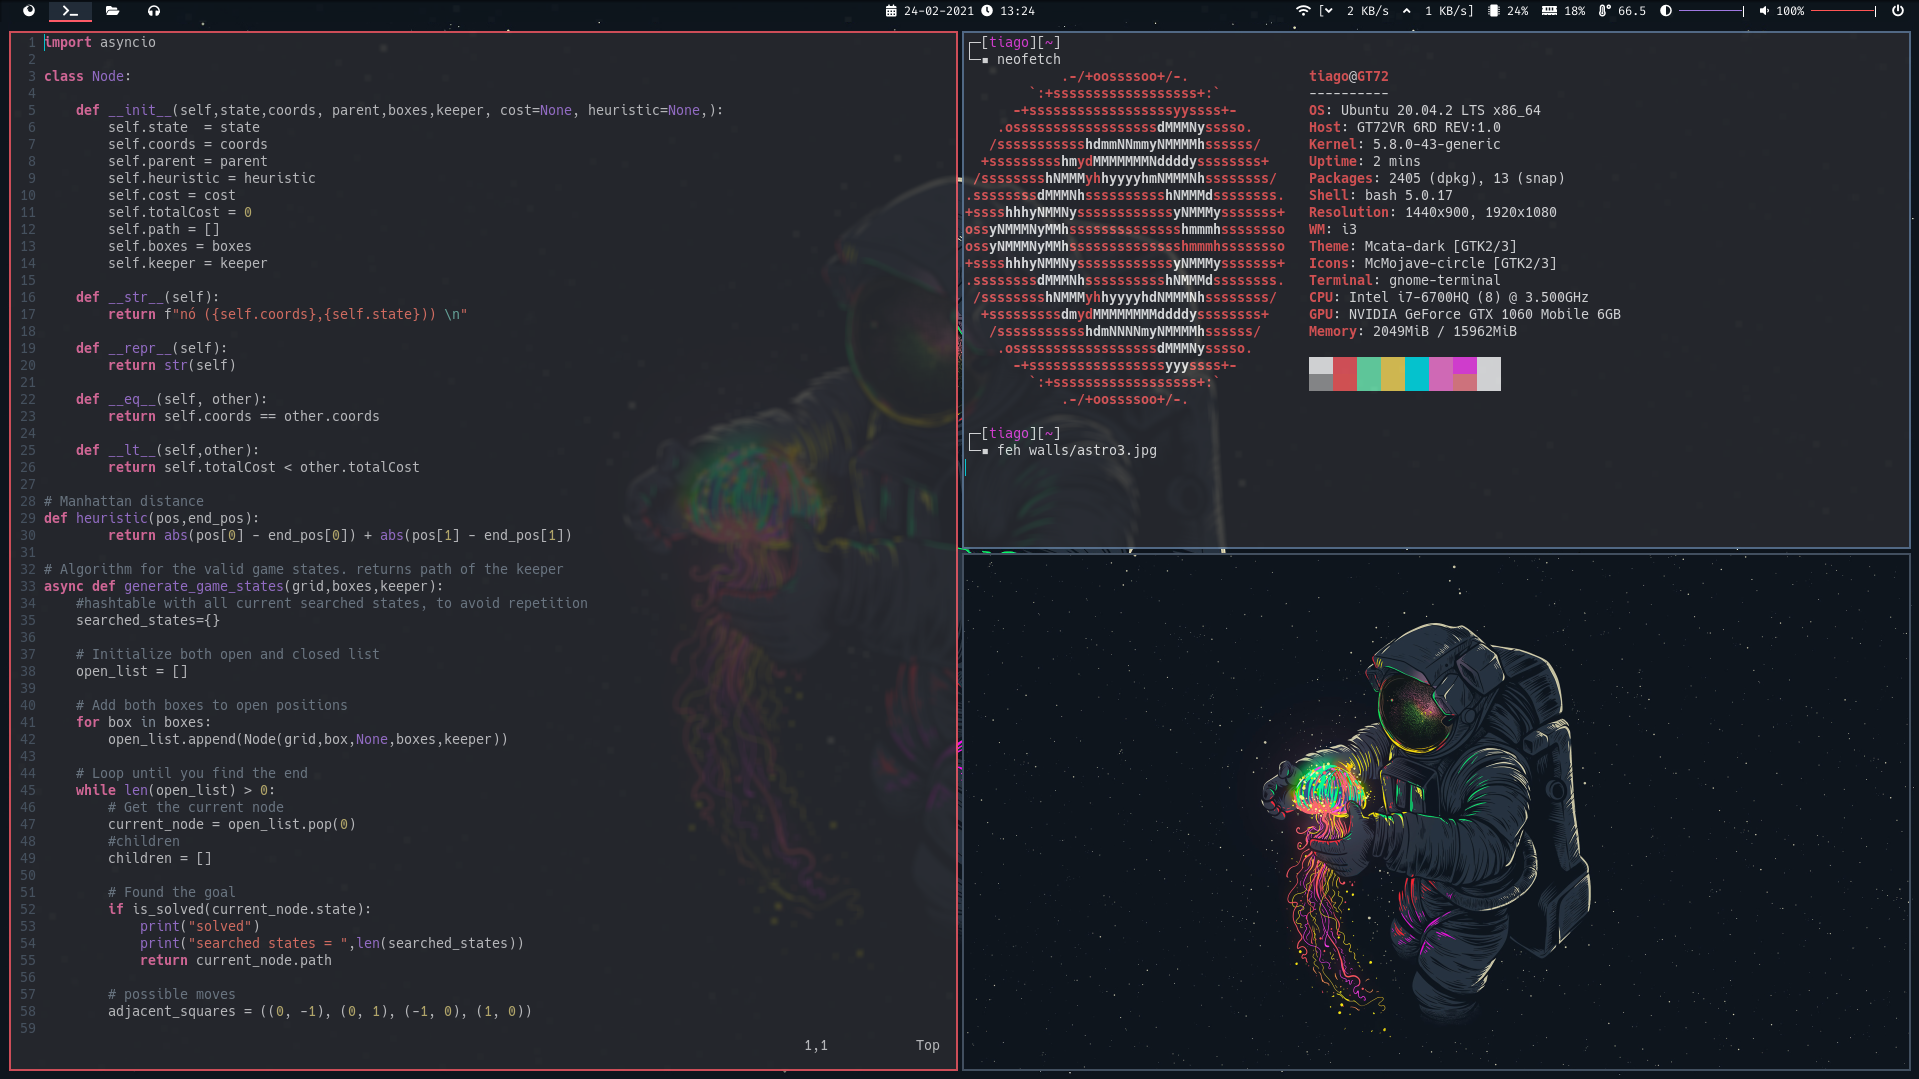
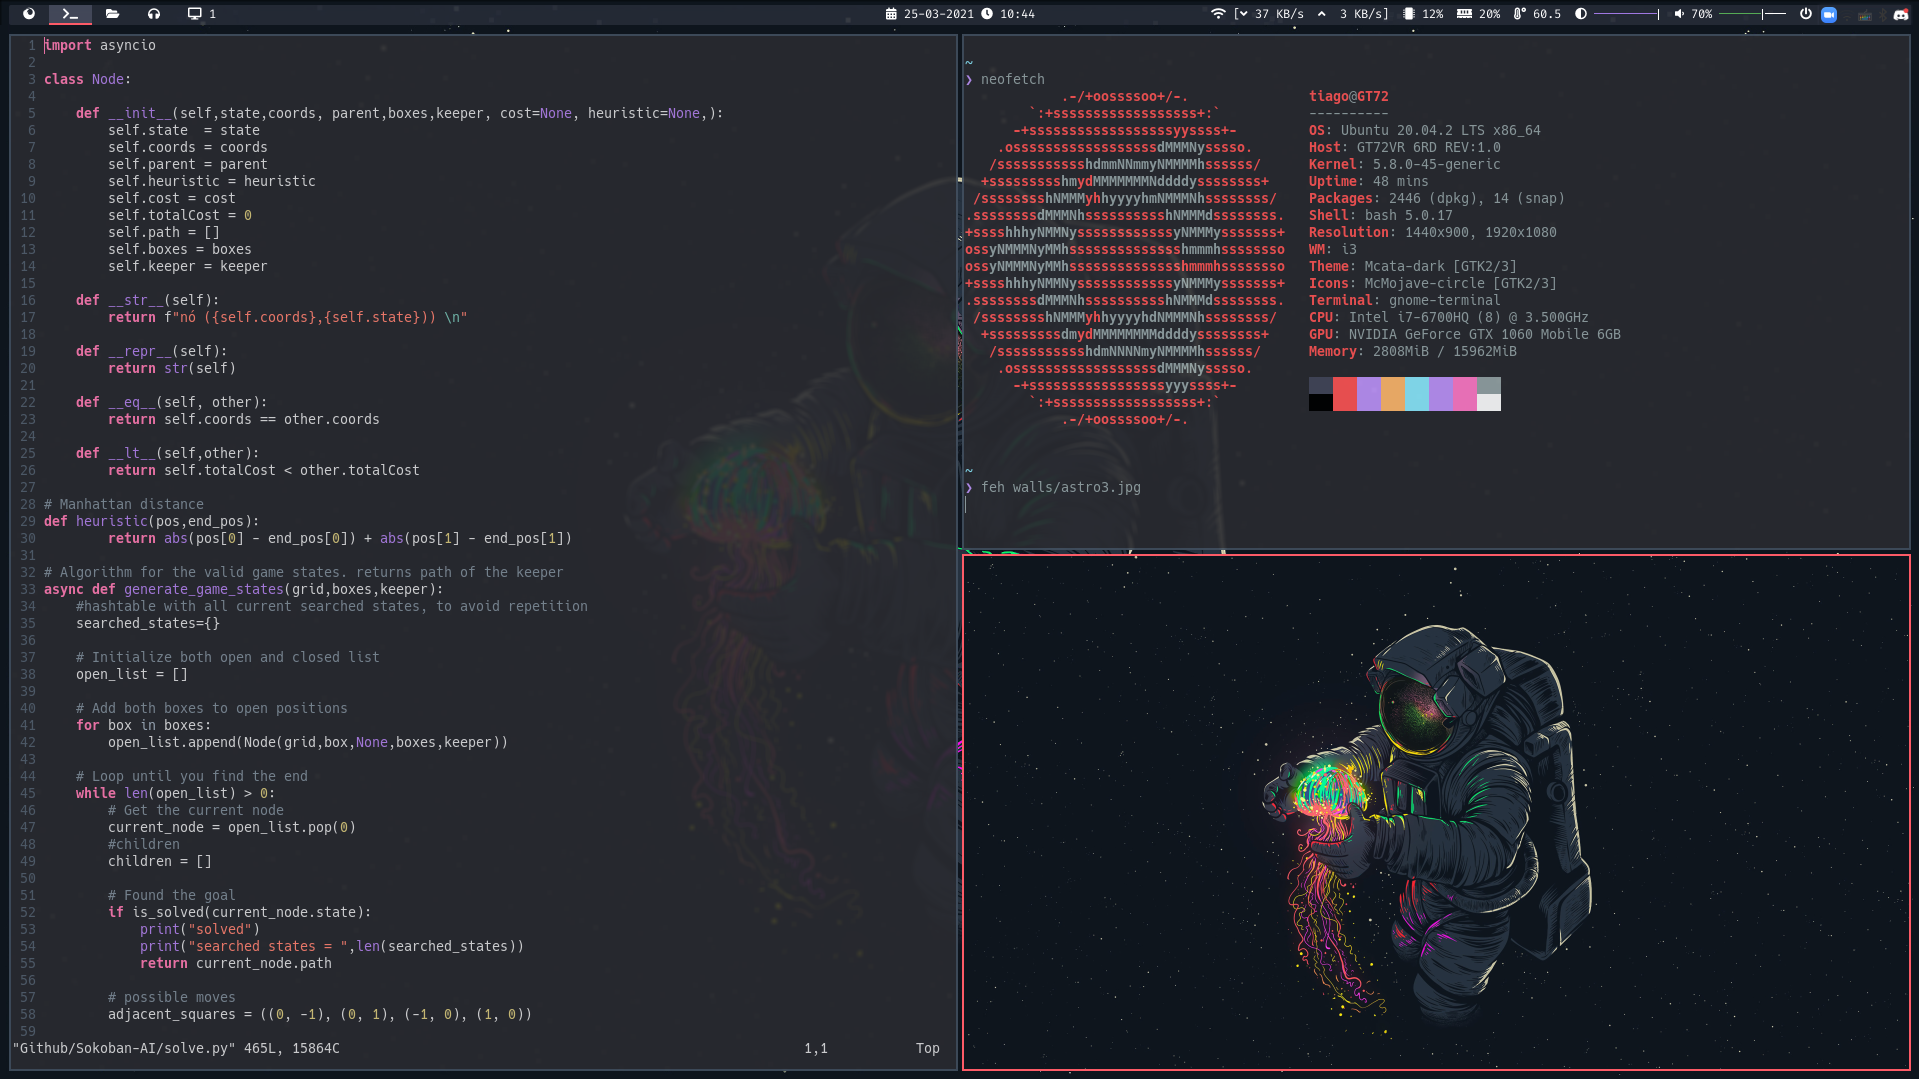
bash theme update, rofi screenshot included, polybar changes

diff --git a/README.md b/README.md
@@ -13,4 +13,4 @@
 
 ### How it looks:
 
-![image](ws.png)
+![image](ws.gif)
